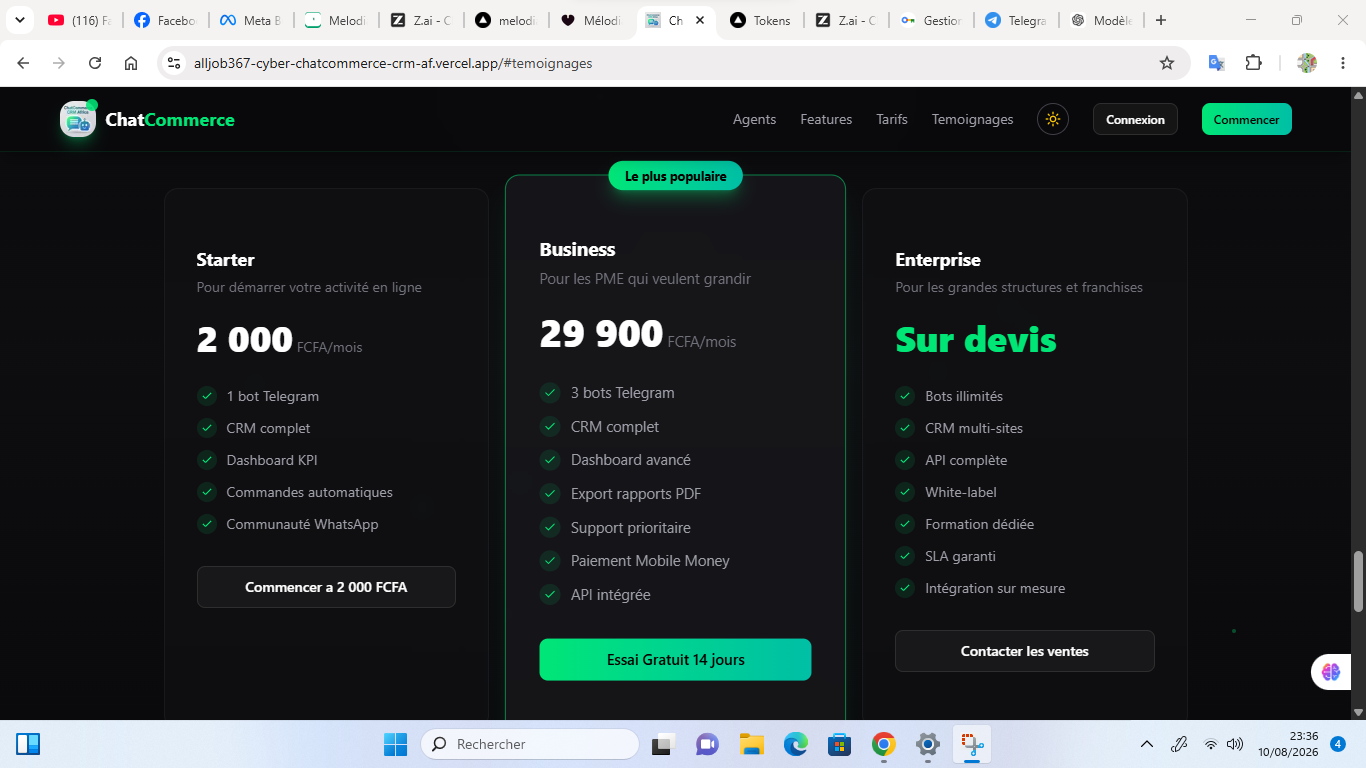
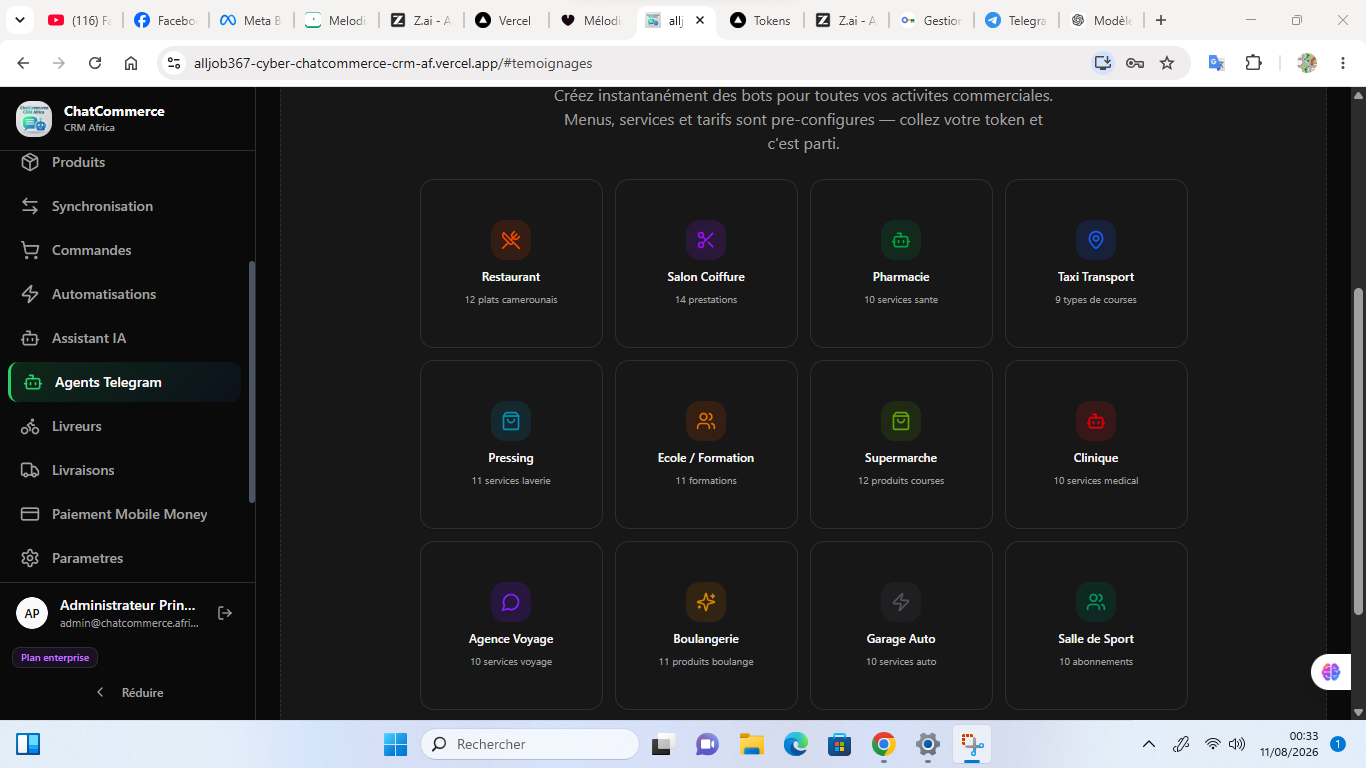
26e9bfd0-0a96-486a-b43b-5e7c8c19ff92

diff --git a/src/components/app/telegram-page.tsx b/src/components/app/telegram-page.tsx
@@ -35,6 +35,7 @@ import {
 import { Switch } from "@/components/ui/switch";
 import { Progress } from "@/components/ui/progress";
 import { Separator } from "@/components/ui/separator";
+import type { LucideIcon } from "lucide-react";
 import {
   Bot,
   Plus,
@@ -66,6 +67,14 @@ import {
   RefreshCw,
   LayoutList,
   Calendar,
+  Pill,
+  Car,
+  Shirt,
+  GraduationCap,
+  Globe,
+  Plane,
+  Wrench,
+  Dumbbell,
 } from "lucide-react";
 import { toast } from "sonner";
 import BookingCalendar from "@/components/app/booking-calendar";
@@ -137,6 +146,26 @@ interface TelegramStats {
   }>;
   recentBookings: TelegramBooking[];
   dailyBookings: Array<{ date: string; count: number }>;
+}
+
+// ─── Business Type Config (icons, labels, colors) ─────────────
+const BUSINESS_TYPE_CONFIG: Record<string, { label: string; icon: LucideIcon; bg: string; bgDark: string; color: string; servicesLabel: string }> = {
+  restaurant:      { label: "Restaurant",       icon: UtensilsCrossed,  bg: "bg-orange-100",  bgDark: "dark:bg-orange-900/30",  color: "text-orange-600",  servicesLabel: "plats de votre menu" },
+  salon_coiffure:  { label: "Salon Coiffure",   icon: Scissors,        bg: "bg-purple-100",  bgDark: "dark:bg-purple-900/30",  color: "text-purple-600",  servicesLabel: "prestations de votre salon" },
+  pharmacie:        { label: "Pharmacie",        icon: Pill,            bg: "bg-green-100",   bgDark: "dark:bg-green-900/30",   color: "text-green-600",   servicesLabel: "services de votre pharmacie" },
+  taxi_transport:   { label: "Taxi Transport",   icon: Car,             bg: "bg-blue-100",    bgDark: "dark:bg-blue-900/30",    color: "text-blue-600",    servicesLabel: "types de courses" },
+  pressing_laverie: { label: "Pressing",         icon: Shirt,           bg: "bg-cyan-100",    bgDark: "dark:bg-cyan-900/30",    color: "text-cyan-600",    servicesLabel: "services de laverie" },
+  ecole_formation:  { label: "Ecole / Formation", icon: GraduationCap, bg: "bg-amber-100",   bgDark: "dark:bg-amber-900/30",   color: "text-amber-600",   servicesLabel: "formations" },
+  supermarche:     { label: "Supermarche",     icon: ShoppingBag,     bg: "bg-lime-100",    bgDark: "dark:bg-lime-900/30",    color: "text-lime-600",    servicesLabel: "produits" },
+  clinique:         { label: "Clinique",         icon: Bot,             bg: "bg-red-100",     bgDark: "dark:bg-red-900/30",     color: "text-red-600",     servicesLabel: "services medical" },
+  agence_voyage:    { label: "Agence Voyage",    icon: Plane,           bg: "bg-violet-100",  bgDark: "dark:bg-violet-900/30",  color: "text-violet-600",  servicesLabel: "services voyage" },
+  boulangerie:      { label: "Boulangerie",      icon: Sparkles,        bg: "bg-yellow-100",  bgDark: "dark:bg-yellow-900/30",  color: "text-yellow-600",  servicesLabel: "produits de boulangerie" },
+  garage_auto:      { label: "Garage Auto",      icon: Wrench,          bg: "bg-zinc-100",    bgDark: "dark:bg-zinc-800/50",    color: "text-zinc-600",    servicesLabel: "services auto" },
+  salle_sport:      { label: "Salle de Sport",   icon: Dumbbell,        bg: "bg-emerald-100", bgDark: "dark:bg-emerald-900/30", color: "text-emerald-600", servicesLabel: "abonnements" },
+};
+
+function getBusinessConfig(type: string) {
+  return BUSINESS_TYPE_CONFIG[type] || BUSINESS_TYPE_CONFIG.restaurant;
 }
 
 // ─── Status Badge Helper ─────────────────────────────────────────
@@ -661,17 +690,15 @@ export default function TelegramPage() {
                     <CardHeader className="pb-3">
                       <div className="flex items-center justify-between">
                         <div className="flex items-center gap-3">
-                          <div className={`w-10 h-10 rounded-lg flex items-center justify-center ${agent.businessType === "restaurant" ? "bg-orange-100 dark:bg-orange-900/30" : "bg-purple-100 dark:bg-purple-900/30"}`}>
-                            {agent.businessType === "restaurant" ? (
-                              <UtensilsCrossed className="w-5 h-5 text-orange-600" />
-                            ) : (
-                              <Scissors className="w-5 h-5 text-purple-600" />
-                            )}
-                          </div>
+                          {(() => { const bc = getBusinessConfig(agent.businessType); const Icon = bc.icon; return (
+                            <div className={`w-10 h-10 rounded-lg flex items-center justify-center ${bc.bg} ${bc.bgDark}`}>
+                              <Icon className={`w-5 h-5 ${bc.color}`} />
+                            </div>
+                          ); })()}
                           <div>
                             <CardTitle className="text-base">{agent.name}</CardTitle>
                             <CardDescription className="text-xs">
-                              {agent.businessType === "restaurant" ? "Restaurant" : "Salon de Coiffure"}
+                              {getBusinessConfig(agent.businessType).label}
                               {" · "}
                               {agent._count.services} services
                             </CardDescription>
@@ -776,11 +803,7 @@ export default function TelegramPage() {
                               <TableCell>
                                 <div className="flex items-center gap-2">
                                   <Badge variant="outline" className="text-xs">
-                                    {b.agent?.businessType === "restaurant" ? (
-                                      <UtensilsCrossed className="w-3 h-3 mr-1" />
-                                    ) : (
-                                      <Scissors className="w-3 h-3 mr-1" />
-                                    )}
+                                    {(() => { const bc = getBusinessConfig(b.agent?.businessType || "restaurant"); const Icon = bc.icon; return <Icon className="w-3 h-3 mr-1" />; })()}
                                     {b.serviceName || "—"}
                                   </Badge>
                                 </div>
@@ -825,13 +848,11 @@ export default function TelegramPage() {
                     <CardHeader className="pb-3">
                       <div className="flex items-center justify-between">
                         <div className="flex items-center gap-3">
-                          <div className={`w-10 h-10 rounded-lg flex items-center justify-center ${agent.businessType === "restaurant" ? "bg-orange-100 dark:bg-orange-900/30" : "bg-purple-100 dark:bg-purple-900/30"}`}>
-                            {agent.businessType === "restaurant" ? (
-                              <UtensilsCrossed className="w-5 h-5 text-orange-600" />
-                            ) : (
-                              <Scissors className="w-5 h-5 text-purple-600" />
-                            )}
-                          </div>
+                          {(() => { const bc = getBusinessConfig(agent.businessType); const Icon = bc.icon; return (
+                            <div className={`w-10 h-10 rounded-lg flex items-center justify-center ${bc.bg} ${bc.bgDark}`}>
+                              <Icon className={`w-5 h-5 ${bc.color}`} />
+                            </div>
+                          ); })()}
                           <div>
                             <CardTitle className="text-sm">{agent.name}</CardTitle>
                             <p className="text-xs text-muted-foreground">
@@ -1090,12 +1111,14 @@ export default function TelegramPage() {
               <Select value={agentForm.businessType} onValueChange={(v) => setAgentForm({ ...agentForm, businessType: v })}>
                 <SelectTrigger><SelectValue /></SelectTrigger>
                 <SelectContent>
-                  <SelectItem value="restaurant">
-                    <span className="flex items-center gap-2"><UtensilsCrossed className="w-4 h-4" /> Restaurant</span>
-                  </SelectItem>
-                  <SelectItem value="salon_coiffure">
-                    <span className="flex items-center gap-2"><Scissors className="w-4 h-4" /> Salon de Coiffure</span>
-                  </SelectItem>
+                  {Object.entries(BUSINESS_TYPE_CONFIG).map(([key, cfg]) => {
+                    const Icon = cfg.icon;
+                    return (
+                      <SelectItem key={key} value={key}>
+                        <span className="flex items-center gap-2"><Icon className="w-4 h-4" /> {cfg.label}</span>
+                      </SelectItem>
+                    );
+                  })}
                 </SelectContent>
               </Select>
             </div>
@@ -1269,13 +1292,11 @@ export default function TelegramPage() {
           {activateAgent && (
             <div className="space-y-4">
               <div className="p-3 rounded-lg bg-muted/50 flex items-center gap-3">
-                <div className={`w-10 h-10 rounded-lg flex items-center justify-center ${activateAgent.businessType === "restaurant" ? "bg-orange-100 dark:bg-orange-900/30" : "bg-purple-100 dark:bg-purple-900/30"}`}>
-                  {activateAgent.businessType === "restaurant" ? (
-                    <UtensilsCrossed className="w-5 h-5 text-orange-600" />
-                  ) : (
-                    <Scissors className="w-5 h-5 text-purple-600" />
-                  )}
-                </div>
+                {(() => { const bc = getBusinessConfig(activateAgent.businessType); const Icon = bc.icon; return (
+                  <div className={`w-10 h-10 rounded-lg flex items-center justify-center ${bc.bg} ${bc.bgDark}`}>
+                    <Icon className={`w-5 h-5 ${bc.color}`} />
+                  </div>
+                ); })()}
                 <div>
                   <p className="font-medium text-sm">{activateAgent.name}</p>
                   <p className="text-xs text-muted-foreground">
@@ -1325,7 +1346,7 @@ export default function TelegramPage() {
               Services — {servicesAgent?.name}
             </DialogTitle>
             <DialogDescription>
-              Gérez les {servicesAgent?.businessType === "restaurant" ? "plats de votre menu" : "prestations de votre salon"}
+              Gérez les {getBusinessConfig(servicesAgent?.businessType || "restaurant").servicesLabel}
             </DialogDescription>
           </DialogHeader>
 

diff --git a/src/app/api/telegram/setup/route.ts b/src/app/api/telegram/setup/route.ts
@@ -2,6 +2,7 @@ import { NextResponse } from "next/server";
 import { db } from "@/lib/db";
 import { verifyToken } from "@/lib/auth";
 import { sanitize, handleError } from "@/lib/security";
+import { checkPlanLimit, PLAN_LIMITS } from "@/lib/plan-limits";
 
 async function auth(request: Request) {
   const token = request.headers.get("authorization")?.replace("Bearer ", "");
@@ -342,10 +343,28 @@ export async function POST(request: Request) {
     const existingAgents = await db.telegramAgent.findMany({ where: { companyId } });
     const existingTypes = existingAgents.map((a) => a.businessType);
 
+    // Check plan limit BEFORE creating any agents
+    const company = await db.company.findUnique({ where: { id: companyId }, select: { plan: true } });
+    const currentCount = existingAgents.length;
+    const limitError = checkPlanLimit(company?.plan || "starter", "maxTelegramAgents", currentCount);
+    if (limitError) {
+      return NextResponse.json({ error: limitError }, { status: 403 });
+    }
+
     // Determine which agents to create
-    const templatesToCreate = agentType
+    let templatesToCreate = agentType
       ? AGENT_TEMPLATES.filter((t) => t.businessType === agentType && !existingTypes.includes(agentType))
       : AGENT_TEMPLATES.filter((t) => !existingTypes.includes(t.businessType));
+
+    // Limit creation to the plan's maxTelegramAgents
+    const maxAgents = (company?.plan && PLAN_LIMITS[company.plan]?.maxTelegramAgents) || PLAN_LIMITS.starter.maxTelegramAgents;
+    const remaining = maxAgents - currentCount;
+    if (remaining <= 0) {
+      return NextResponse.json({ error: limitError }, { status: 403 });
+    }
+    if (templatesToCreate.length > remaining) {
+      templatesToCreate = templatesToCreate.slice(0, remaining);
+    }
 
     if (templatesToCreate.length === 0) {
       return NextResponse.json({

diff --git a/src/app/api/telegram/agents/route.ts b/src/app/api/telegram/agents/route.ts
@@ -46,8 +46,8 @@ export async function POST(request: Request) {
     }
 
     const VALID_BUSINESS_TYPES = [
-      "restaurant", "salon_coiffure", "pharmacie", "taxi", "pressing",
-      "ecole", "supermarche", "clinique", "voyage", "boulangerie", "garage", "salle_sport",
+      "restaurant", "salon_coiffure", "pharmacie", "taxi_transport", "pressing_laverie",
+      "ecole_formation", "supermarche", "clinique", "agence_voyage", "boulangerie", "garage_auto", "salle_sport",
     ];
     if (!VALID_BUSINESS_TYPES.includes(businessType)) {
       return NextResponse.json({ error: "Type de business invalide" }, { status: 400 });

diff --git a/src/components/app/payments-page.tsx b/src/components/app/payments-page.tsx
@@ -29,7 +29,7 @@ const PLAN_PRICES: Record<string, number> = {
   starter: 5000,
   pro: 14900,
   business: 29900,
-  enterprise: 99900,
+  enterprise: 69900,
 };
 
 const PLAN_NAMES: Record<string, string> = {
@@ -215,7 +215,7 @@ export default function PaymentsPage({ targetPlan }: { targetPlan?: string }) {
     {
       key: "enterprise",
       name: "Enterprise",
-      price: 99900,
+      price: 69900,
       features: ["Contacts illimites", "Agents illimites", "Produits illimites", "Messages illimites", "Campagnes illimitees", "IA avancee", "API complete", "White-label", "Support 24/7"],
     },
   ];

diff --git a/src/app/api/payments/confirm/route.ts b/src/app/api/payments/confirm/route.ts
@@ -57,7 +57,7 @@ export async function POST(request: Request) {
       );
     }
 
-    const PLAN_PRICES: Record<string, number> = { starter: 5000, pro: 14900, business: 29900, enterprise: 99900 };
+    const PLAN_PRICES: Record<string, number> = { starter: 5000, pro: 14900, business: 29900, enterprise: 69900 };
     if (payment.amount !== PLAN_PRICES[payment.plan]) {
       return NextResponse.json({ error: "Montant incorrect pour ce plan" }, { status: 400 });
     }

diff --git a/src/components/app/settings-page.tsx b/src/components/app/settings-page.tsx
@@ -205,7 +205,7 @@ const PLANS = [
     key: "enterprise",
     name: "Enterprise",
     icon: Sparkles,
-    price: "99 900",
+    price: "69 900",
     period: "FCFA/mois",
     features: [
       "Contacts illimites",

diff --git a/src/app/api/payments/route.ts b/src/app/api/payments/route.ts
@@ -7,7 +7,7 @@ const PLAN_PRICES: Record<string, number> = {
   starter: 5000,
   pro: 14900,
   business: 29900,
-  enterprise: 99900,
+  enterprise: 69900,
 };
 
 function generateRef(): string {

diff --git a/worklog.md b/worklog.md
@@ -88,3 +88,26 @@ Stage Summary:
 - Telegram Ads restricted to Business/Enterprise plans only
 - Chariow API NOT connected — guide exists at /download/GUIDE_CHARIOW_CONFIGURATION.md
 - Deployed: https://alljob367-cyber-chatcommerce-crm-af.vercel.app
+
+---
+Task ID: 2
+Agent: main
+Task: Vérifier tous les agents Telegram + corriger bugs critiques + prix Enterprise
+
+Work Log:
+- Analysé le screenshot uploadé: page Agents Telegram avec 12 templates affichés
+- Lu et analysé tous les fichiers liés aux agents (telegram-page.tsx, setup/route.ts, agents/route.ts, agents/[id]/route.ts, plan-limits.ts)
+- Découvert que Option B (Pro plan) était déjà partiellement implémenté mais Enterprise encore à 99 900 au lieu de 69 900
+- CORRIGÉ BUG CRITIQUE: VALID_BUSINESS_TYPES dans agents/route.ts avait des valeurs mismatchées (taxi vs taxi_transport, ecole vs ecole_formation, etc.)
+- CORRIGÉ BUG CRITIQUE: /api/telegram/setup route ne vérifiait PAS les limites de plan — un utilisateur Starter pouvait créer les 12 agents
+- CORRIGÉ BUG MOYEN: Dropdown "Type de Business" ne montrait que 2 types (restaurant, salon) sur les 12 disponibles
+- CORRIGÉ BUG MOYEN: Dashboard et Agents tab affichaient les mêmes icônes restaurant/salon pour tous les types d'agents
+- Ajouté BUSINESS_TYPE_CONFIG avec 12 types: icônes, labels, couleurs, labels de services
+- CORRIGÉ: Prix Enterprise 99 900 → 69 900 FCFA dans payments-page, settings-page, payments API, confirm API
+- TypeScript check: 0 erreurs
+- Déployé en production sur Vercel
+
+Stage Summary:
+- 4 bugs critiques/moyens corrigés dans les agents Telegram
+- Prix Enterprise aligné sur Option B (69 900 FCFA)
+- Production déployée: https://alljob367-cyber-chatcommerce-crm-af.vercel.app
